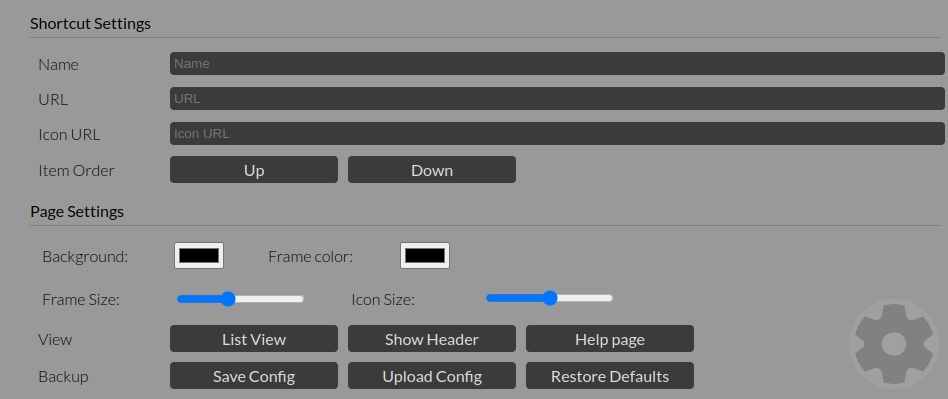
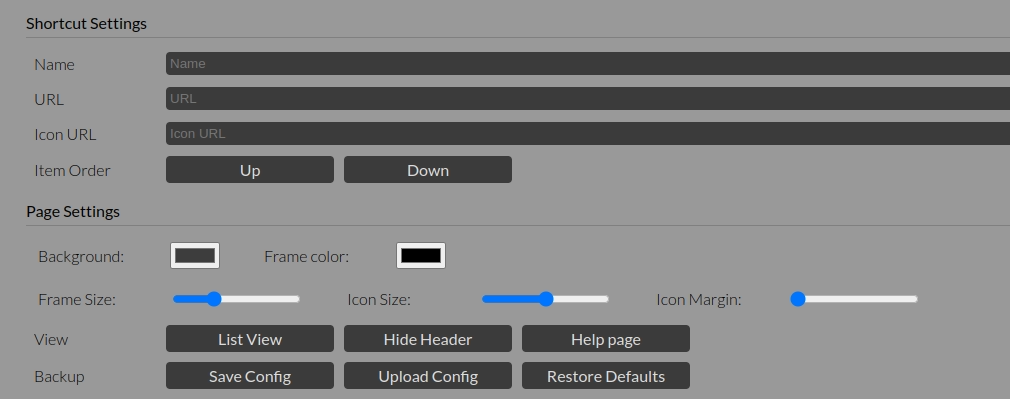
update README deployment section

diff --git a/README.md b/README.md
@@ -8,9 +8,9 @@ a minimalist but beautiful and efficient startpage or homepage for design-consci
 
 ## Table of Contents
 
-- [what is it? - User Experience](#what-is-it---user-experience)
-- [How does it work?](#how-does-it-work)
-- [Features](#features)
+- [__what is it? - User Experience__](#what-is-it---user-experience)
+- [__How does it work?__](#how-does-it-work)
+- [__Features__](#features)
     - [Customizable display name and Icon for each link](#customizable-display-name-and-icon-for-each-link)
     - [Customizable Icon sizes and surrounding frame](#customizable-icon-sizes-and-surrounding-frame)
     - [Customizable background colors](#customizable-background-colors)
@@ -19,13 +19,13 @@ a minimalist but beautiful and efficient startpage or homepage for design-consci
     - [Help page](#help-page)
     - [List View](#list-view)
     - [Settings Pane](#settings-pane)
-- [Feature Details](#feature-details)
+- [__Feature Details__](#feature-details)
     - [animated display name over icons](#animated-display-name-over-icons)
     - [animated Header and setting button opacity](#animated-header-and-setting-button-opacity)
-- [Frameworks, Libraries & Programs Used](#frameworks-libraries--programs-used)
-- [Other Code Sources](#other-code-sources)
-- [Validation and Testing](#validation-and-testing)
-- [Deployment](#deployment)
+- [__Frameworks, Libraries & Programs Used__](#frameworks-libraries--programs-used)
+- [__Other Code Sources__](#other-code-sources)
+- [__Validation and Testing__](#validation-and-testing)
+- [__Deployment__](#deployment)
 
 
 
@@ -97,7 +97,7 @@ The settings panelis toggled by pressing the settings gear icon on the lower rig
 
 
 ### Customizable Icon sizes and surrounding frame
-The size of onscreen icons can be set by the user through the settings pane.
+The size of onscreen icons can be set by the user through the settings pane.  The margin around each icon can also be customized. 
 
 
 ### Customizable background colors
@@ -180,7 +180,20 @@ Github Pages is a good choice for this project because it is free, and the code 
 The page can be accessed at https://pxp888.github.io/startpage/
 
 
+### Forking the GitHub Repository
+By forking the repository, we make a copy of the original repository on our GitHub account to view and change without affecting the original repository by using these steps:
 
+1.  Log in to GitHub and locate GitHub Repository [startpage](https://github.com/pxp888/startpage)
+2.  At the top of the Repository(under the main navigation) locate "Fork" button.
+3.  Now you should have a copy of the original repository in your GitHub account.
 
+### Local Clone
 
+1.  Log in to GitHub and locate GitHub Repository [startpage](https://github.com/pxp888/startpage)
+2.  Under the repository name click "Clone or download"
+3.  Click on the code button, select clone with HTTPS, SSH or GitHub CLI and copy the link shown.
+4.  Open Git Bash
+5.  Change the current working directory to the location where you want the cloned directory to be made.
+6.  Type git clone and then paste The URL copied in the step 3.
+7.  Press Enter and your local clone will be created.
 
